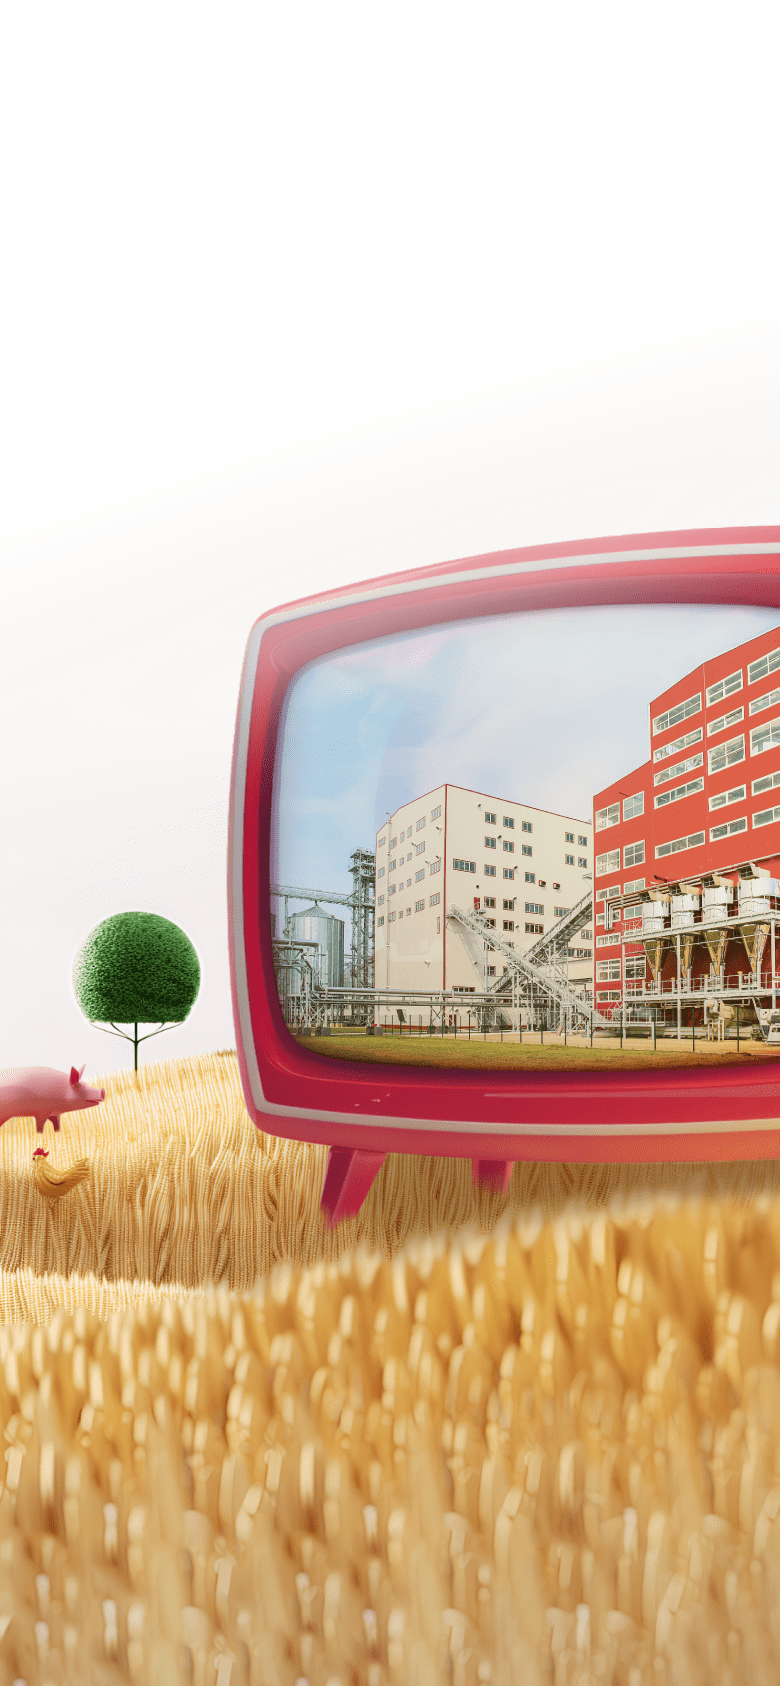
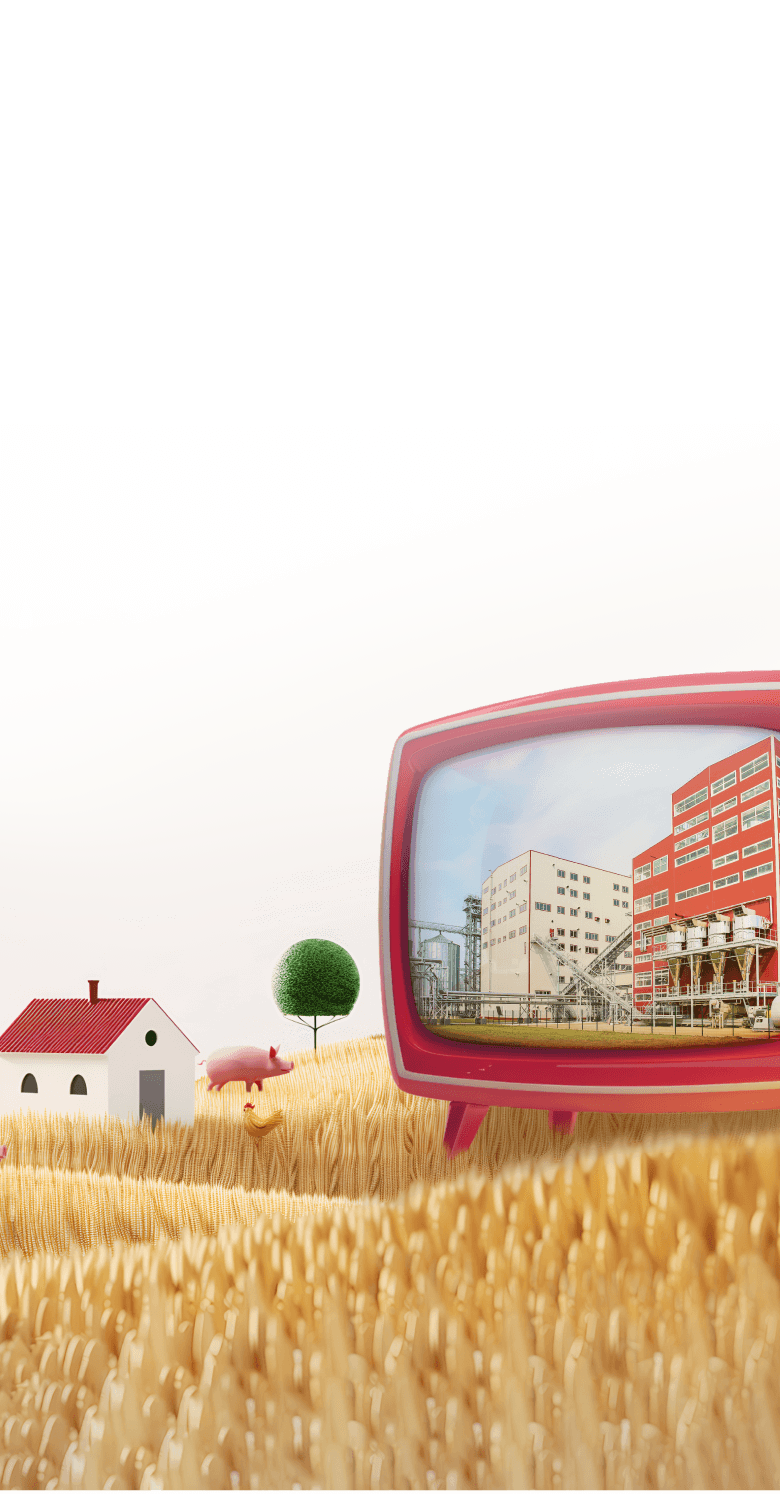
#0 - Уменьшил основное изображение на мобиле

diff --git a/webpack-config/webpack.dev.conf.js b/webpack-config/webpack.dev.conf.js
@@ -15,7 +15,7 @@ const devWebpackConfig = merge(baseWebpackConfig, {
         static: {
             directory: baseWebpackConfig.externals.paths.dist,
         },
-        port: 8081,
+        port: 8082,
         client: {
             overlay: {
                 warnings: true,

diff --git a/src/assets/sass/views/index.sass b/src/assets/sass/views/index.sass
@@ -47,6 +47,8 @@
             z-index: 1
             @media ( max-width: $mob )
                 background-image: url('../img/main-mob.png')
+                top: unset
+                bottom: -2px
 
     .main-page__sky
         position: absolute
